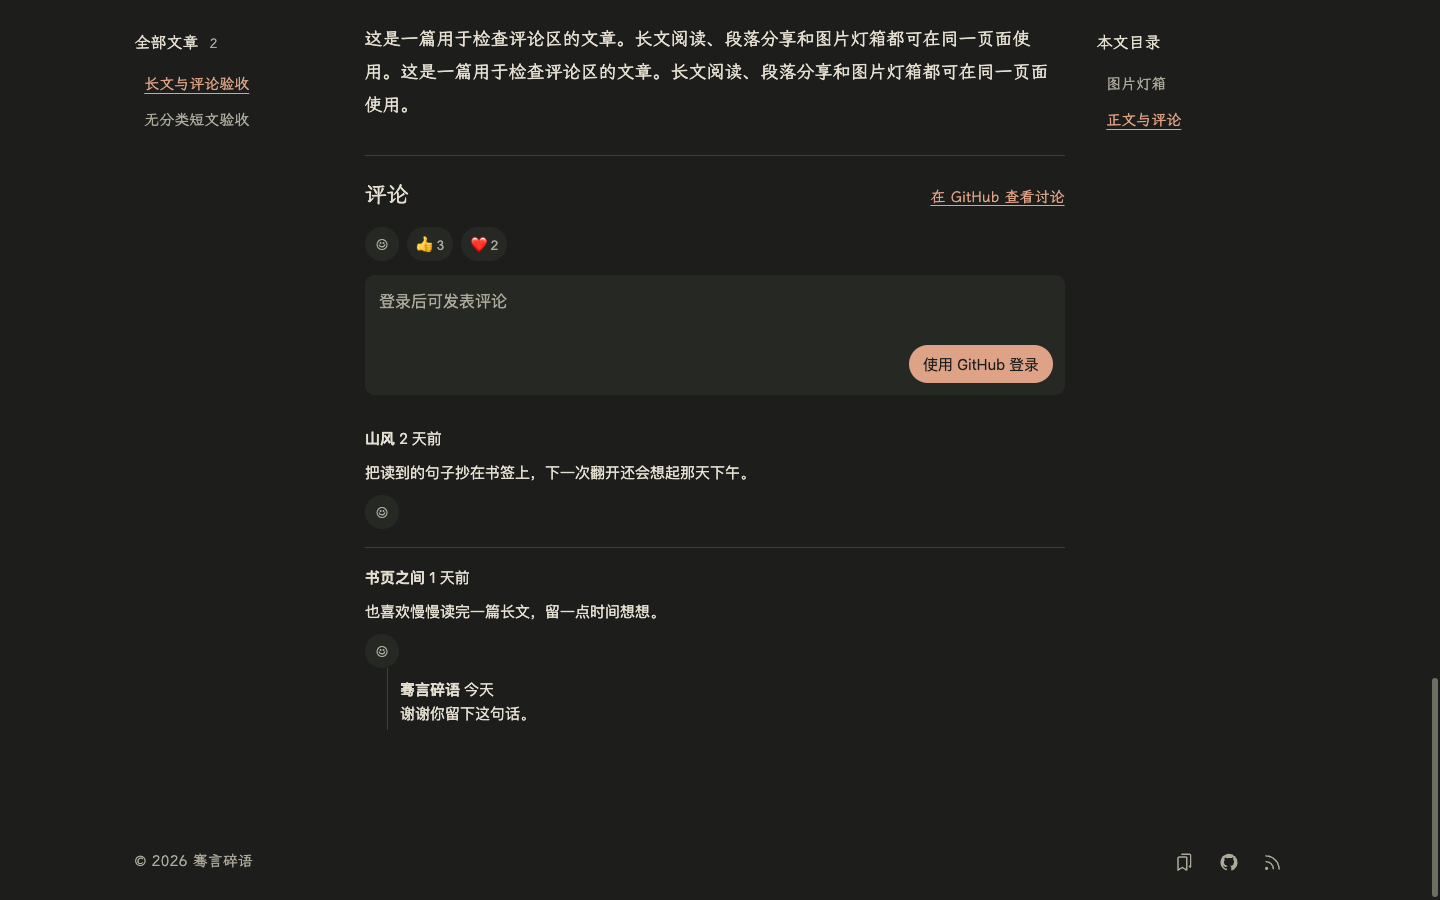
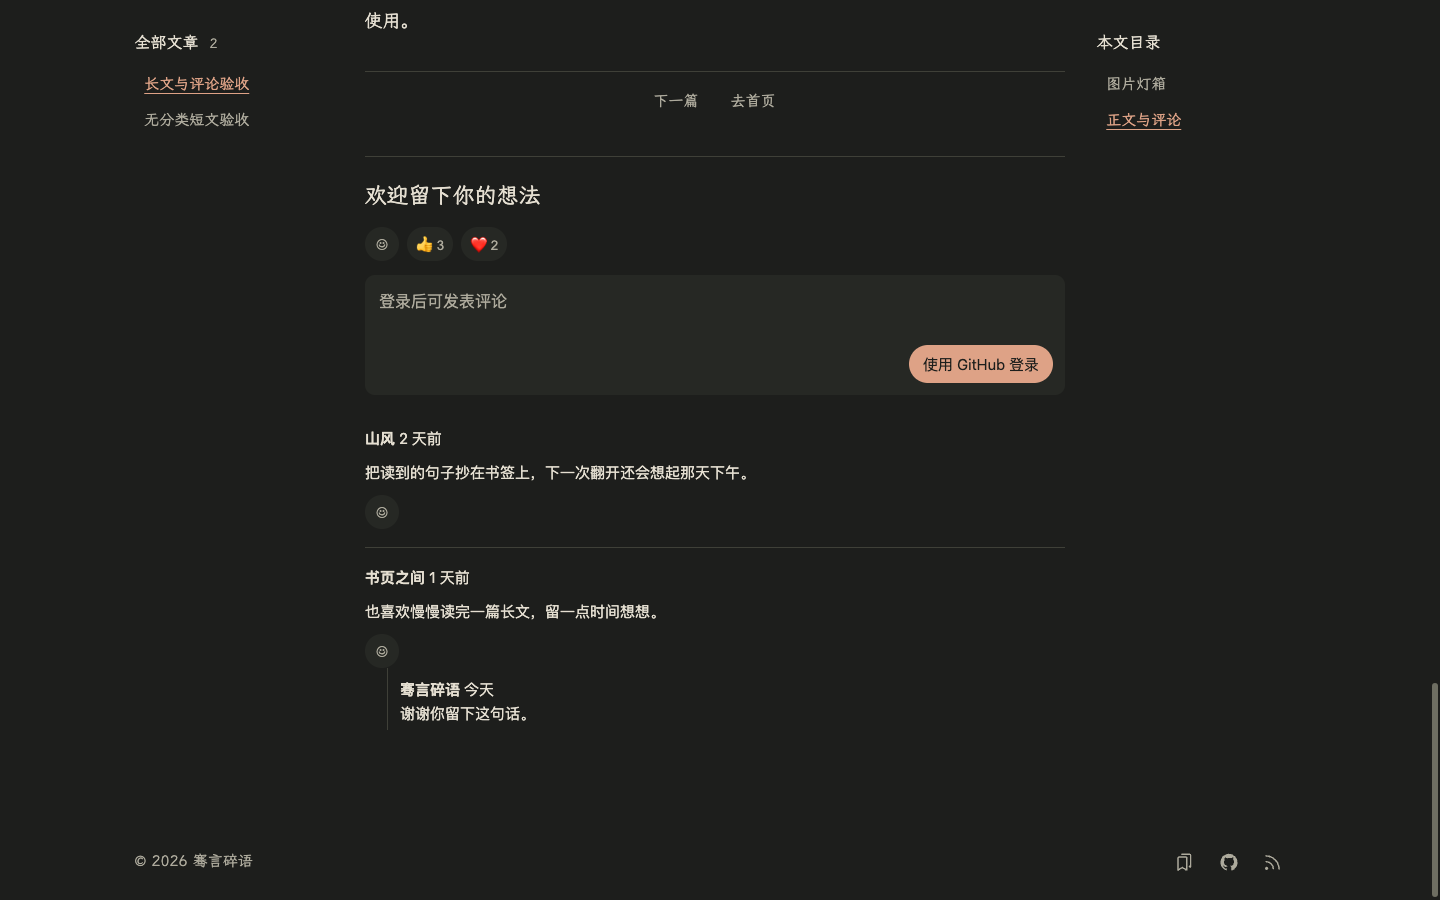
fix: place article pagination before comments

Changed region(s): [[0.25, 0.0, 0.75, 0.1244], [0.25, 0.1867, 0.375, 0.2489], [0.6562, 0.2178, 0.75, 0.2489]]

diff --git a/src/lib/comments.ts b/src/lib/comments.ts
@@ -9,7 +9,7 @@ export const comments = {
   mapping: 'specific',
   strict: '1',
   reactionsEnabled: '1',
-  // The widget reports a GitHub URL only after a discussion exists.
+  // Giscus reports metadata when an existing discussion is ready.
   emitMetadata: '1',
   inputPosition: 'top',
   lang: 'zh-CN',

diff --git a/docs/m5.4/README.md b/docs/m5.4/README.md
@@ -6,16 +6,16 @@
 
 - [Comments.astro](../../src/components/Comments.astro) 使用官方原生脚本，继承 M4 的正文宽度、分隔线、颜色和控件样式。正常滚动进入视口下方 240 px 时启动加载。短文首屏已包含评论区时，读者可直接点击「加载评论」。沉浸阅读隐藏评论区，退出后恢复原 iframe。
 - [配置](../../src/lib/comments.ts) 将永久 `articleId` 映射为 `article-${articleId}`，在 `Article Comments` 分类内严格匹配。文章的 Canonical URL 通过 `giscus:backlink` 传给 Giscus，供创建讨论时写入正文。文章改标题或 Slug 时，既有讨论继续关联同一 Article ID。既有讨论正文中的回链仍是创建当时的地址。 [Giscus 高级用法](https://github.com/giscus/giscus/blob/main/ADVANCED-USAGE.md)
-- 网站显式或系统主题变化时，通过 `postMessage` 将浅色或深色主题地址发给当前 iframe。接收时同时验证来源和 iframe。只在 Giscus 返回当前仓库的有效讨论地址时显示「在 GitHub 查看讨论」。首次评论或回应由 Giscus 按需建立讨论。
+- 网站显式或系统主题变化时，通过 `postMessage` 将浅色或深色主题地址发给当前 iframe。接收时同时验证来源和 iframe。首次评论或回应由 Giscus 按需建立讨论。
 - 脚本错误、服务错误或 15 秒无就绪消息时显示重试。脚本失败后可以重新请求，已有 iframe 时重载该 iframe。正式构建也只在 `https://qians.day` 启用评论。[giscus.json](../../giscus.json) 在 GitHub 默认分支生效，来源仅允许正式站点。
 
 ## 评论区样式调整
 
-左侧保留「评论」，右侧保留 GitHub 讨论链接。表情回应、输入框与留言按阅读顺序排列。评论总数和回应总数收起，保留单个表情的实际人数、留言排序和原生登录入口。留言采用细分隔，回复使用缩进。
+正文结束后直接显示文章翻页和首页入口，桌面与移动端顺序一致。评论区标题为「欢迎留下你的想法」，下方依次显示表情回应、输入框与留言。保留单个表情的实际人数、留言排序和原生登录入口。留言采用细分隔，回复使用缩进。
 
 [自定义主题](../../public/comments/theme.css)使用 M4 的色彩并沿用 Giscus 的交互。两种主题共享同一个透明底样式表。Cloudflare Pages 仅为该样式表设置 Giscus 专用 CORS 头，样式随 iframe 按需加载。 [Giscus 自定义主题说明](https://github.com/giscus/giscus/blob/main/ADVANCED-USAGE.md#data-theme)
 
-Ego Lite 在 1440 px 桌面和 390 px 触屏检查了明暗布局、总数隐藏和主题切换。移动端表情入口高 44 px，主题切换复用原 iframe。隔离构建提供截图，并在 Giscus 官方示例中复核真实控件和未登录时的表情菜单。 [测量与响应头](theme-browser.json)
+Ego Lite 在 1440 px 桌面和 390 px 触屏检查了正文、翻页和评论区的顺序，以及明暗布局、总数隐藏和主题切换。移动端实际点击可到下一篇及首页，表情入口高 44 px。主题切换和沉浸阅读退出复用原 iframe。隔离构建提供截图，并在 Giscus 官方示例中复核真实控件和未登录时的表情菜单。 [测量与响应头](theme-browser.json)
 
 [桌面浅色](screenshots/theme-desktop-light.png) · [桌面深色](screenshots/theme-desktop-dark.png) · [移动端浅色](screenshots/theme-mobile-light.png) · [移动端深色](screenshots/theme-mobile-dark.png)
 
